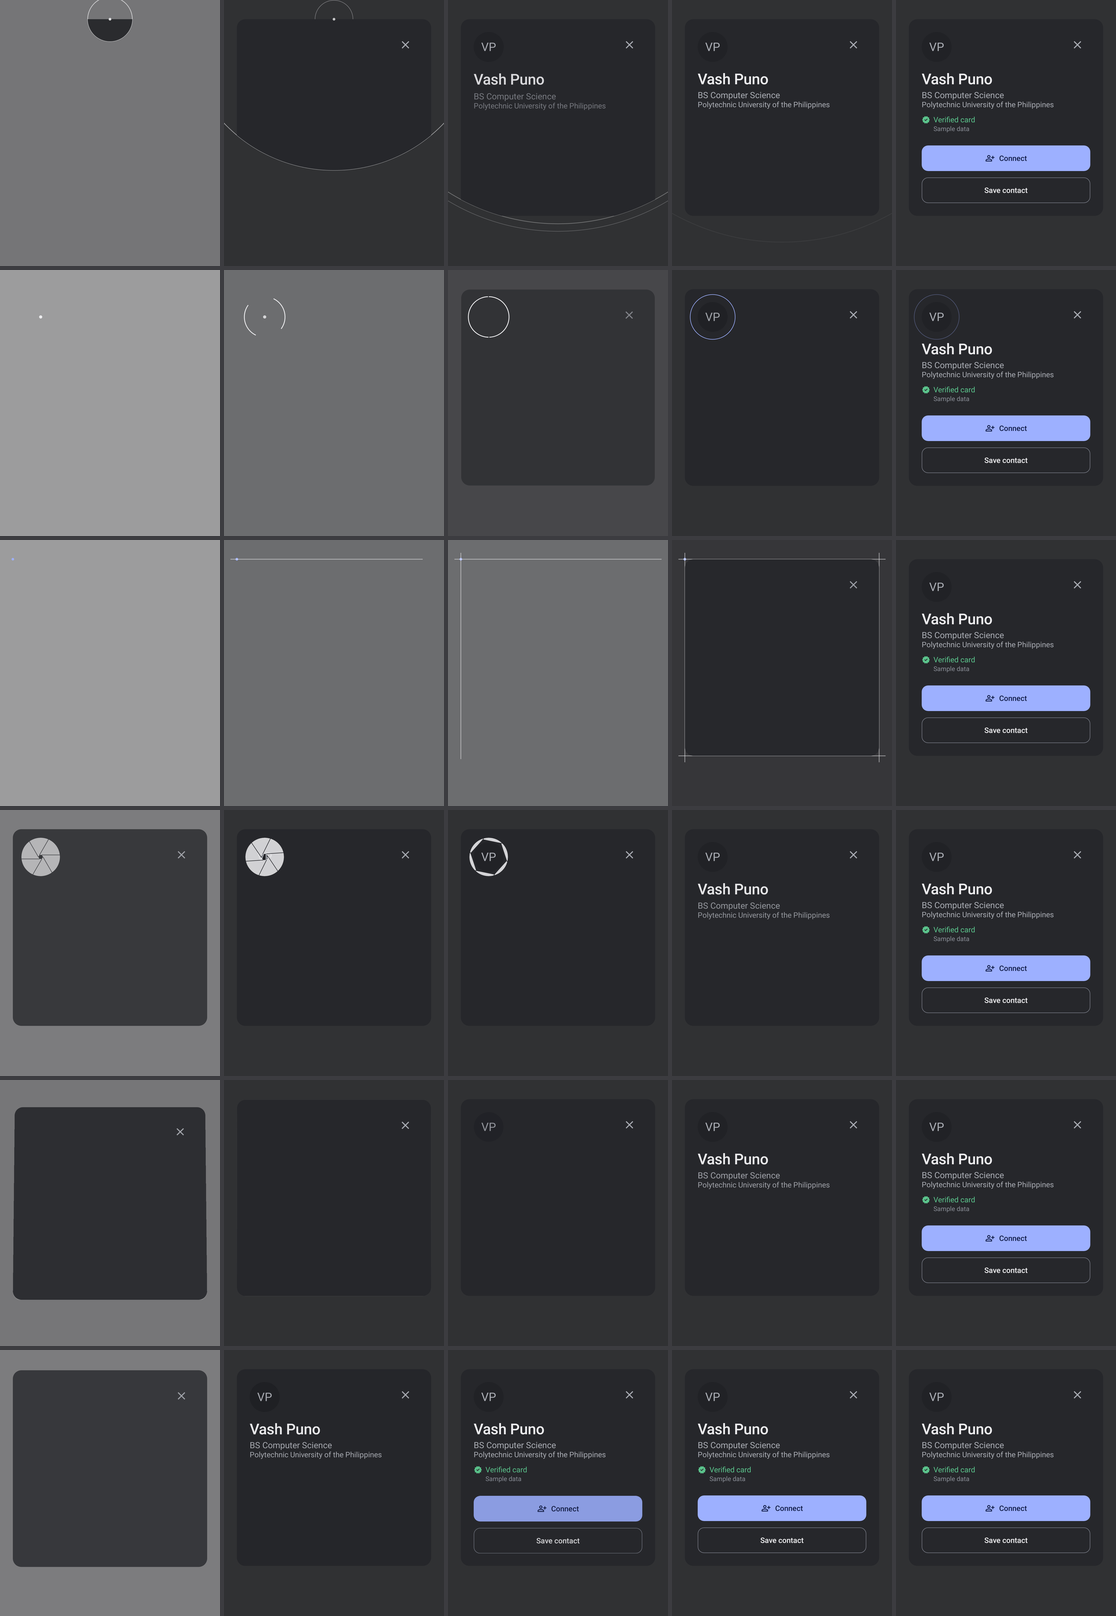
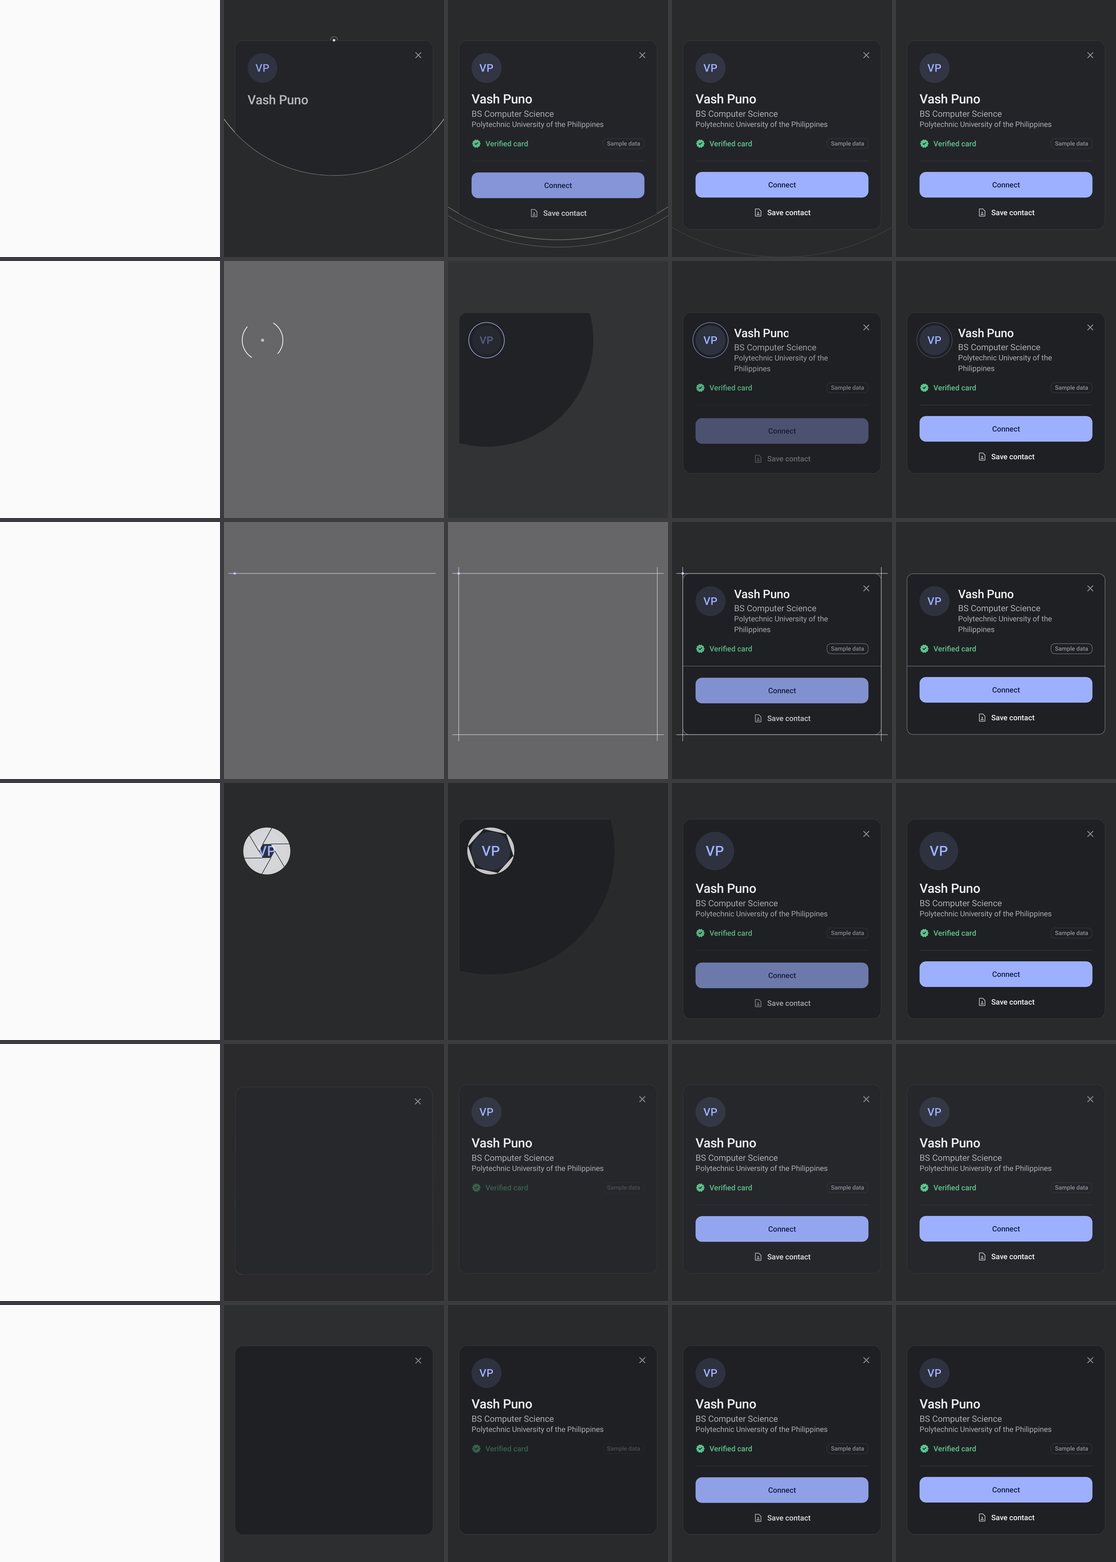
docs: document the identity surface, revised timings and renders
Reveal docs gain the identity surface section, pairings, states and
finished-surface images; template contact sheets now show 0/25/50/75 %
and settled. Foundation gets the backdrop and surface tokens; the
Kipat design skill gets the surface rules.

Claude-Session: https://claude.ai/code/session_014gtnW3oi4wPSe5yKbAtHfW

diff --git a/docs/reveal.md b/docs/reveal.md
@@ -3,7 +3,7 @@
 One renderer (`RevealScreen`) serves every entry point: NFC tag, debug deep link, Preview
 (Home/Profile) and Replay (Connections).
 
-![The six Reveal templates at 100, 250, 450, 700 ms and settled, light theme (Robolectric renders of the Compose runtime)](images/reveal-templates-light.png)
+![The six Reveal templates at 0, 25, 50 and 75 % of their timelines and settled, light theme (Robolectric renders of the Compose runtime)](images/reveal-templates-light.png)
 
 *Rows top to bottom: Contact Ripple, Precision Orbit, Line Assembly, Aperture, Spatial Card,
 Minimal Fade. JVM (Robolectric) renders of the real Compose code, not Higgsfield output and not
@@ -25,6 +25,44 @@ primary/secondary CTA labels, connectable.
 - A tag/link that can't be resolved shows a neutral "Kipat card · Card ID" shell, "Not verified",
   and a *Done* button (no Connect).
 
+## Identity surface
+
+Every template settles into the same object, `KipatIdentitySurface` (design:
+`design/reveal-surface/`). It is also Profile's "How others see you".
+
+![The settled surface of all six templates, light and dark](images/reveal-surface-finals.png)
+
+- **Order:** identity (anchor + name), context (role, then organisation, quieter), trust, then
+  attached actions. Content-driven height (≈ 280–370 dp); scrolls only if content is unusually long.
+- **Width:** screen − 40 dp, max 380 dp. Padding 24 dp (20 dp below 340 dp). Radius 16 dp (12 dp
+  structural).
+- **Anchor:** photo (`content://`), organisation logo (rounded square) or a designed monogram: the
+  person's accent at 12% with the initials in the accent. Never a grey placeholder disc.
+- **Name:** 22–24 sp, weight 500, wraps up to three lines.
+- **Trust row:** one glyph + the state in words, inside the identity block. Demo = a small
+  "Sample data" chip on the same row. A detail line only for revoked / couldn't verify. Checking is
+  a static arc (no spinner); unverified is neutral; revoked is red but plain; couldn't verify is
+  amber.
+- **Actions:** Connect (filled accent, 48 dp, no decorative icon; "Connected" is a settled accent
+  tint, not disabled grey), then Save contact / Open profile as a light icon + label row.
+- **Close:** a 48 dp target with a quiet 20 dp ✕ in the same top-end corner for every layout;
+  backdrop tap and Back also dismiss.
+
+Layouts and materials are curated per template (`RevealPresentation`):
+
+| Template | Layout | Treatment |
+|---|---|---|
+| Contact Ripple | Compact (stacked) | Tonal |
+| Precision Orbit | Profile header (row) | Paper |
+| Line Assembly | Profile header (row) | Structural |
+| Aperture | Editorial (72 dp anchor) | Paper |
+| Spatial Card | Compact | Floating |
+| Minimal Fade | Compact | Paper |
+
+States and hard content (long name, 320 dp phone, no context, company, every trust state):
+
+![Identity surface states](images/reveal-surface-states.png)
+
 ## Templates
 
 Six interpretations of one card (design: `design/reveal-templates/`). Each has exactly **one primary
@@ -33,11 +71,11 @@ motion**, plus the surface resolving and text staging. Shared: `RevealStage` (on
 
 | Template (wire ID) | Primary motion | Surface | Name | Settled |
 |---|---|---|---|---|
-| **Contact Ripple** (`ripple`, default) | Contact dot; one ring from the card's top centre is the edge of a circular reveal; a fainter second ring | circular reveal | fade | 1220 ms |
-| Precision Orbit (`orbit`) | Two symmetric arcs turn 90° once, close into a ring around the avatar, turn accent, settle as a 1 dp frame | fade + 0.99→1 | wipe | 1400 ms |
-| Line Assembly (`lines`) | Accent corner mark; top and left drafting lines drawn with 12 dp overshoot; right and bottom fade in; lines leave | fade | wipe | 1400 ms |
-| Aperture (`aperture`) | Six flat blades over the avatar turn −5°, open to the rim (+12°), fade as slivers; ≤ 600 ms on screen | fade | fade | 1240 ms |
-| Spatial Card (`spatial`) | Card arrives tilted 6° (pivot: bottom edge) showing a 3 dp edge; settles flat on a ζ 0.9 spring; shadow forms (light) | tilt | fade | 1200 ms |
+| **Contact Ripple** (`ripple`, default) | Contact dot; one ring from the card's top centre is the edge of a circular reveal that uncovers surface *and* content; a fainter second ring | circular reveal from the contact point | fade | 900 ms (actions at 680) |
+| Precision Orbit (`orbit`) | Two symmetric arcs turn 90° once, close, tighten onto the avatar and turn accent; the surface then grows out of the ring | circular reveal from the avatar | wipe | 1160 ms |
+| Line Assembly (`lines`) | Accent corner mark; top and left drafting lines drawn with 12 dp overshoot; right and bottom fade in; material and content fill inside; lines leave | fade | wipe | 1200 ms |
+| Aperture (`aperture`) | Six flat blades over the avatar turn −5°, open to the rim (+12°), fade as slivers; the surface then unfolds from the anchor | circular reveal from the avatar | fade | 1080 ms |
+| Spatial Card (`spatial`) | The surface arrives with its content, tilted 6° (pivot: bottom edge) showing a 3 dp edge; settles flat on a ζ 0.9 spring; shadow forms (light) | tilt | fade | 700 ms |
 | Minimal Fade (`minimal-fade`, low-power) | None: fade + 10 dp rise | fade-rise | fade | 620 ms |
 
 Legacy IDs on already-written cards: `drip`, `particle-bloom`, `soft-glow`, `liquid-logo`,
@@ -47,10 +85,15 @@ Colour: one ink per theme for every primitive (graphite on a paper scrim in ligh
 graphite scrim in dark); the person's accent only at completion (orbit ring, corner mark) and on
 Connect. No particles, glow, gradients, blur or sound in any template.
 
-**Picker** (Profile → Reveal style): each row shows a static thumbnail drawn with the template's
-own primitives at its key frame, the name and one line of character. Tapping a row only selects;
-**Preview** plays the selection on your own card; **Apply** makes it what others see. Accent works
-the same way.
+A template's clock stops at `max(actions settled, primitive finished)`; after that the frame is
+completely static (Spatial Card's tilt snaps to exactly 0).
+
+**Picker** (Profile → Reveal style): a live preview at the top plays the selection once on the
+recipient's surface and holds the settled frame (Replay to play again; static when system
+animations are off). Below: rows with a static thumbnail drawn with the template's own
+primitives, the name and one line of character, selected by a tonal background and a check; the
+accents as real colour swatches. Selecting only changes the draft ("Not applied yet");
+**Preview** plays it full screen; **Apply** makes it what others see.
 
 <img src="images/reveal-style-picker.png" width="300" alt="Reveal style picker: six templates with thumbnails, Preview and Apply">
 
@@ -63,7 +106,8 @@ Nothing overshoots visibly.
 
 Actions: **Connect** (primary; "Done" for an unresolved card), **Save contact** (Android contact
 editor via ACTION_INSERT), **Open profile** (only when there is a Kipat profile to open: an
-existing connection or your own preview). Card, scrim and ink follow the system light/dark theme.
+existing connection or your own preview). Surface, backdrop and ink follow the system light/dark
+theme.
 
 The spec's "0–100 ms activity launch" target is **not** claimed. The earlier OPPO probe measured
 ~190 ms warm launch; nothing has been measured on a device for this build.

diff --git a/.claude/skills/kipat-product-design/SKILL.md b/.claude/skills/kipat-product-design/SKILL.md
@@ -44,7 +44,7 @@ Exactly one filled button per context. Everything else: text button, row, or ove
 - **Type:** system sans, weights 400 & 500 only, sentence case. Identity name 28 sp/500 is the largest type in the shell. App bar title 22 sp. Row title 16/500. Section heading 14/500 secondary, only above a list.
 - **Spacing:** 4 · 8 · 12 · 16 · 20 · 24 · 32 · 40. Gutter 16. Rows ≥ 56 dp (one-line) / 72 dp (two-line). Targets ≥ 48 dp.
 - **Radius:** 8 chips, 12 buttons/inputs/QR frame, 16 recipient card & Reveal card, 20 dialogs/sheets. Buttons are not pills. Avatars and status chips are round.
-- **Surfaces:** flat; tone steps + 1 dp dividers. The shell has **one** card: the RecipientCard preview. No shadows, glass, blur or gradients in the shell.
+- **Surfaces:** flat; tone steps + 1 dp dividers. The shell has **one** card: Profile's identity surface preview (`KipatIdentitySurface`, `inShell = true`, always edged). No shadows, glass, blur or gradients in the shell.
 - **Icons:** Material Symbols Outlined only (`KipatSymbols`). The Kipat mark appears only in the Home app bar and on the Share screen's card row.
 
 ## Motion rules
@@ -58,9 +58,10 @@ Exactly one filled button per context. Everything else: text button, row, or ove
 ## NFC Reveal rules
 
 - Own task (`taskAffinity=""`), translucent, edge-to-edge; the real previous app shows through. Never draw a fake app behind it.
-- Card is opaque (`surfaceElevated`) for legibility over any app; 16 dp radius. Card, scrim and primitive ink follow the system theme: paper scrim + graphite ink in light, graphite scrim + mist ink in dark. Accent only at completion and on Connect.
-- Order of information: avatar, name, role, organisation, trust line, actions. Identity text is in the layout from frame one (alpha only) for TalkBack.
-- Actions: Connect (primary; "Done" for an unresolved card), Save contact (Android ACTION_INSERT, one tap, no .vcf), Open profile only when there is a Kipat profile to open. A close button is always present. No "tap outside" hint text.
+- Every template settles into **`KipatIdentitySurface`** (`design/reveal-surface/`): opaque, content-height (≈ 280–370 dp), width screen − 40 dp up to 380 dp, padding 24 (20 below 340 dp). Layout and material are curated per template (`RevealPresentation`); never add free combinations. Surface, backdrop and primitive ink follow the system theme. Accent only on Connect, the monogram, completion details and selection.
+- The surface must look finished as a still: judge it with `IdentitySurfaceRenderTest` renders, not the animation. Content arrives as the surface reaches it; never an empty card waiting for text or buttons.
+- Order of information: anchor (photo / logo / accent monogram — never a grey disc), name 22–24 sp, role then organisation (quieter), trust row (glyph + words, demo chip on the same row, detail only when something is wrong), rule, actions. Identity text is in the layout from frame one (alpha only) for TalkBack.
+- Actions: Connect (filled, 48 dp; "Done" for an unresolved card; "Connected" = accent tint), then Save contact (Android ACTION_INSERT) / Open profile (only when there is a Kipat profile to open) as a light icon + label row. Never stacked outlined buttons. Close: 48 dp target, quiet 20 dp ✕, same top-end corner in every layout. No "tap outside" hint text.
 - Never record a tap of your own card as someone you met; never turn a tap into a connection without an explicit Connect.
 - No network before the first frame. Haptic on first frame; a second, calm haptic only when the card is verified.
 - Demo/sample data says "Sample data" on its own line. Debug sources are not shown in the card.

diff --git a/design/system/foundation.md b/design/system/foundation.md
@@ -37,7 +37,11 @@ so a person's Kipat always looks like Kipat. It carries meaning: it marks *the a
 | verified | #16794A | #5BC48C | Verified seal + text |
 | warning | #8A5A00 | #E0A645 | Unverified |
 | revoked | #B42318 | #F2766B | Revoked / error |
-| scrim (Reveal) | #F6F6F4 @ 72%→94% | #0E0F12 @ 60%→86% | Over the previous app; follows the theme |
+| backdrop (Reveal) | #E4E4DF @ 72%→92% | #0B0C0E @ 62%→88% | Over the previous app; a step darker than every light surface |
+| identity surface — paper | #FCFCFA + 1 dp #DEDED9 | #1F2023 + 1 dp #34363C | Minimal Fade, Precision Orbit, Aperture |
+| identity surface — tonal | #F7F5F0 (no edge) | #232428 + 1 dp #34363C | Contact Ripple |
+| identity surface — structural | #FCFCFA + 1 dp #8A8D95, radius 12 | #1F2023 + 1 dp #737680, radius 12 | Line Assembly |
+| identity surface — floating | #FFFFFF + 1 dp #E4E4E0 | #26272B + 1 dp #34363C | Spatial Card |
 | ink (Reveal primitives) | #17181C | #EDEDEF | Arcs, rings, lines, blades — one ink, no gradients |
 
 Share of accent on any screen ≤ 10% of pixels.
@@ -133,7 +137,11 @@ Template timelines: `docs/reveal.md` and `design/reveal-templates/`.
 ## Components
 
 - **IdentityBlock** — avatar + name + lines + trust, on the page (no container).
-- **RecipientCard** — the single card: what a recipient sees (Profile preview, Reveal).
+- **KipatIdentitySurface** — the single card: what a recipient sees (Reveal, and Profile's "How
+  others see you"). Identity, context, trust row, attached actions; see `docs/reveal.md`. Primary,
+  secondary and tertiary ink measure ≥ 4.5:1 on every treatment (lowest: tertiary on dark
+  floating, 4.60).
+- **RecipientCard** — legacy container kept for the Home/Person identity previews.
 - **PersonRow** — M3 two-line list item: avatar 40, name, "Role, Organisation", trailing time.
 - **ActionRow** — leading symbol, label, optional value, trailing chevron.
 - **TrustLine** — seal/glyph + words, colour by state; demo shown as a separate "Sample data" line.

diff --git a/design/reveal-templates/README.md b/design/reveal-templates/README.md
@@ -18,6 +18,20 @@ No particles, glow, gradients, blur, bloom or sound in any template.
 
 Final scores and role picks: [final-scorecard.md](final-scorecard.md).
 
+**Revised for the identity surface** (`design/reveal-surface/`): every template now settles into
+`KipatIdentitySurface`, and content, trust and actions arrive as the surface reaches them. The
+primitive beats in each template doc are unchanged except Precision Orbit's ring, which now
+tightens onto the avatar (avatar + 5 dp) instead of expanding. Current card/content timings:
+
+| Template | Surface | Name | Trust | Actions | Clock stops |
+|---|---|---|---|---|---|
+| Contact Ripple | 40 (reveal from contact point, 40–760) | 180 | 300 | 380 | 900 |
+| Precision Orbit | 560 (grows from the ring, 560–1000) | 700 | 780 | 860 | 1160 |
+| Line Assembly | 600–900 (fills inside the lines) | 680 | 780 | 840 | 1200 |
+| Aperture | avatar disc from 40; unfolds 520–900 | 600 | 700 | 780 | 1080 |
+| Spatial Card | 0–250 (the moving object) | 100 | 340 | 400 | 700 |
+| Minimal Fade | 40–320 | 40 | 300 | 380 | 620 |
+
 ## Reference study: "Processing animation for Light camera" (fantasy, Dribbble 3251472)
 
 The shot page could not be fetched from this container (Dribbble returns a bot challenge), so this

diff --git a/design/reveal-templates/final-scorecard.md b/design/reveal-templates/final-scorecard.md
@@ -1,5 +1,9 @@
 # Reveal templates — final scorecard
 
+> These scores were given before the identity-surface redesign and are kept as the record. Since
+> then every template ends in `KipatIdentitySurface` and settles in 620–1200 ms (table in
+> `README.md`); the surface itself is scored in `design/reveal-surface/surface-scorecard.md`.
+
 Scored after implementation from the Robolectric renders of the real Compose code
 (`docs/images/reveal-templates-light.png`, `-dark.png`; regenerate with
 `./gradlew :app:testDebugUnitTest -Pkipat.screenshots=true`). Not yet seen on a phone, so motion
